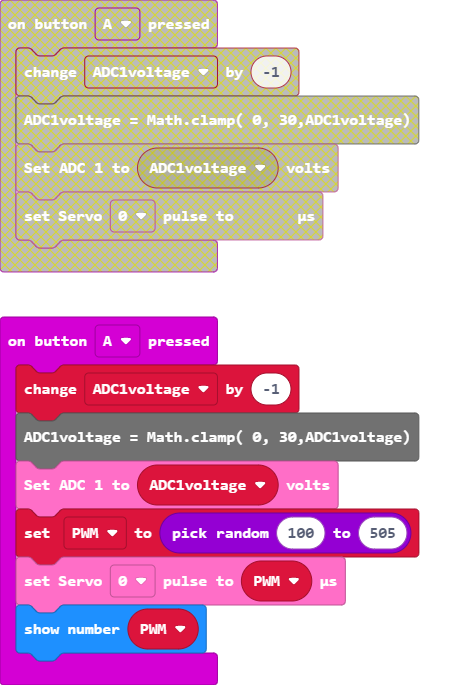
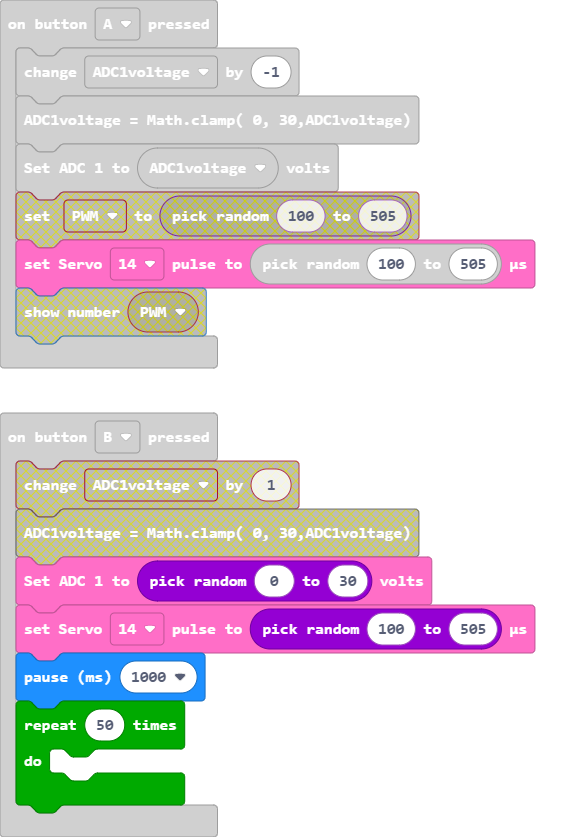
Update pxt.json, main.blocks, main.ts

diff --git a/main.ts b/main.ts
@@ -2,16 +2,15 @@ input.onButtonPressed(Button.A, function () {
     ADC1voltage += -1
     ADC1voltage = Math.clamp( 0, 30,ADC1voltage)
 RainbowSparkleUnicorn.ADC1(ADC1voltage)
-    PWM = randint(100, 505)
-    RainbowSparkleUnicorn.setPulse(Servo.S0, PWM)
-    basic.showNumber(PWM)
+    RainbowSparkleUnicorn.setPulse(Servo.S14, randint(100, 505))
 })
 input.onButtonPressed(Button.B, function () {
-    ADC1voltage += 1
-    ADC1voltage = Math.clamp( 0, 30,ADC1voltage)
-RainbowSparkleUnicorn.ADC1(ADC1voltage)
+    for (let index = 0; index < 50; index++) {
+        RainbowSparkleUnicorn.ADC1(randint(0, 30))
+        RainbowSparkleUnicorn.setPulse(Servo.S14, randint(100, 505))
+        basic.pause(1000)
+    }
 })
-let PWM = 0
 let ADC1voltage = 0
 RainbowSparkleUnicorn.start("SN4")
 ADC1voltage = 15
